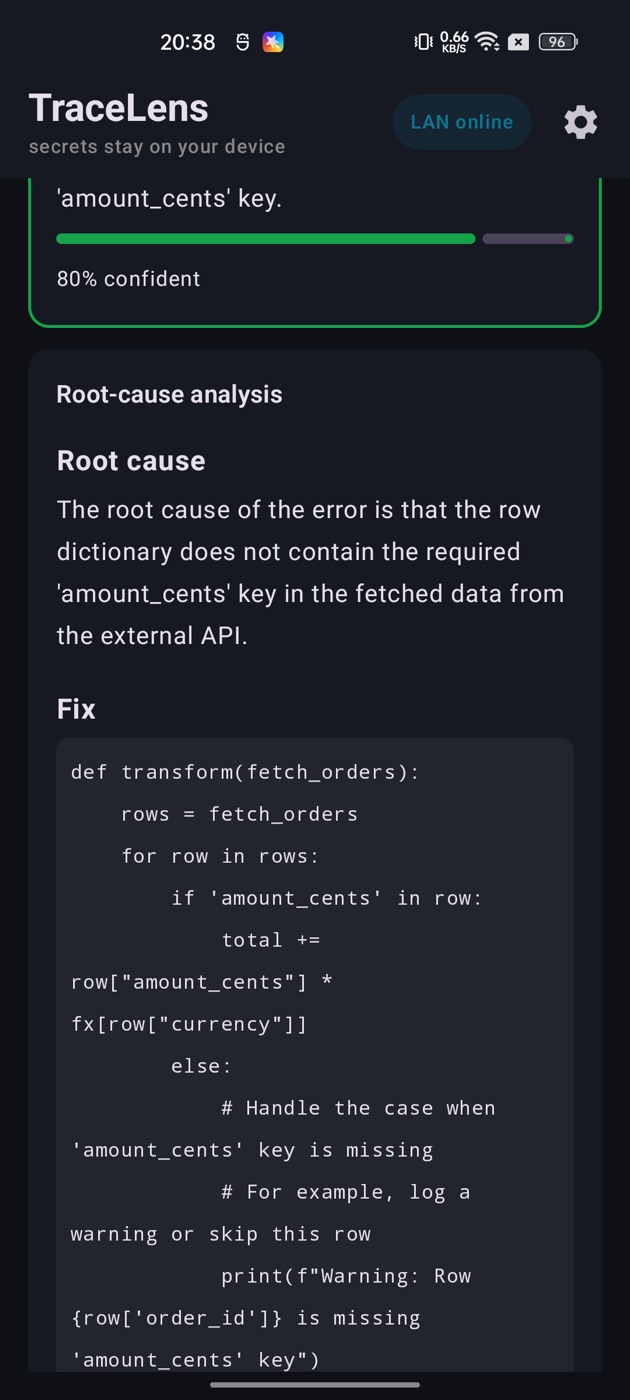
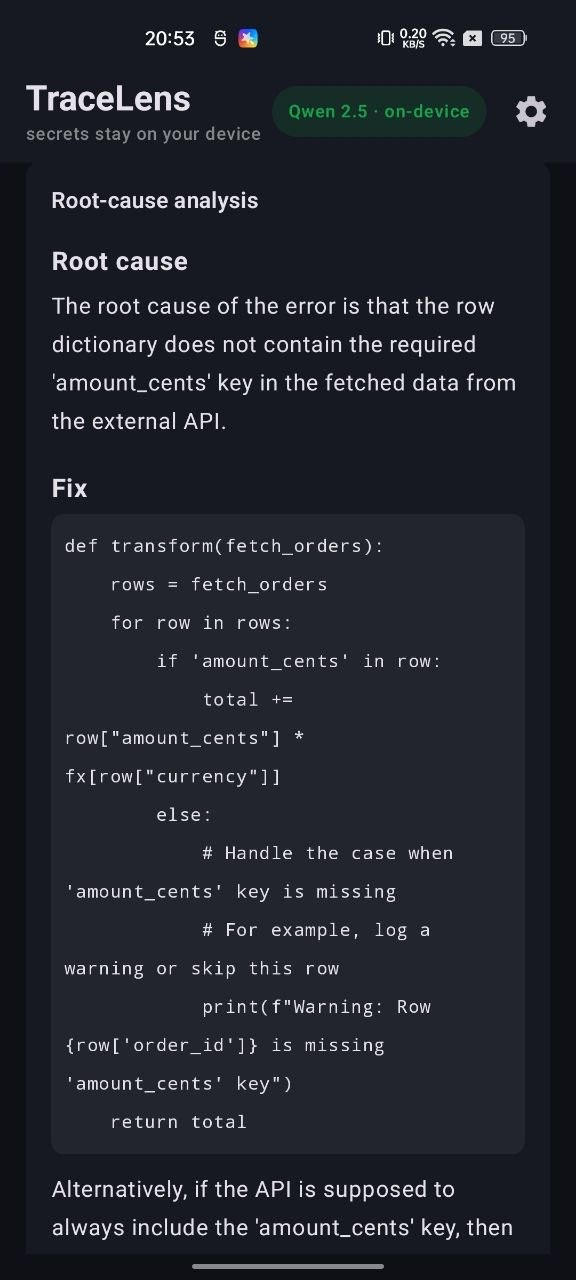
README: new UI screenshots, fix local-model attribution labels

diff --git a/android/app/src/main/java/dev/tracelens/Pipeline.kt b/android/app/src/main/java/dev/tracelens/Pipeline.kt
@@ -328,7 +328,7 @@ suspend fun redact(
                     found += o.optString("kind", "PII") to o.optString("value")
                 }
             }
-            text = r.applyLiterals(text, found)
+            text = r.applyLiterals(text, found, by = "network")
             logs += StepLog("Redact context (AI)", StepSource.LOCAL_NETWORK, System.currentTimeMillis() - t, engine.lan.model)
             RedactResult(r, text, logs, modelRan = true)
         } catch (e: Exception) {
@@ -347,7 +347,7 @@ suspend fun redact(
                     found += o.optString("kind", "PII") to o.optString("value")
                 }
             }
-            text = r.applyLiterals(text, found)
+            text = r.applyLiterals(text, found, by = "edge")
             logs += StepLog("Redact context (AI)", StepSource.EDGE, System.currentTimeMillis() - t, engine.model.name)
             RedactResult(r, text, logs, modelRan = true)
         } catch (e: Exception) {

diff --git a/web/src/App.tsx b/web/src/App.tsx
@@ -561,9 +561,6 @@ export default function App() {
             </span>
           )}
           <span className={`pill ${online ? "pill-online" : "pill-offline"}`}>{online ? "Online" : "Offline"}</span>
-          <button className={`ghost ${inSettings ? "active" : ""}`} onClick={() => (inSettings ? closeSettings() : openSettings())} aria-label="Settings and setup">
-            ⚙ Settings
-          </button>
           {user?.isAnonymous ? (
             <button className="ghost" onClick={googleSignIn}>
               Sign in to sync
@@ -573,6 +570,9 @@ export default function App() {
               Sign out
             </button>
           ) : null}
+          <button className={`ghost ${inSettings ? "active" : ""}`} onClick={() => (inSettings ? closeSettings() : openSettings())} aria-label="Settings and setup">
+            ⚙ Settings
+          </button>
         </div>
       </header>
 

diff --git a/ios/TraceLens/Pipeline.swift b/ios/TraceLens/Pipeline.swift
@@ -221,7 +221,7 @@ enum Pipeline {
                         found.append((kind: item["kind"] as? String ?? "PII", value: item["value"] as? String ?? ""))
                     }
                 }
-                text = r.applyLiterals(text, found)
+                text = r.applyLiterals(text, found, by: "network")
                 logs.append(StepLog(step: "redact_model", source: .localNetwork, ms: ms(since: t), note: lan.model))
                 return RedactResult(redactor: r, sanitized: text, logs: logs, modelRan: true)
             } catch {

diff --git a/ios/TraceLens/ContentView.swift b/ios/TraceLens/ContentView.swift
@@ -394,6 +394,7 @@ struct RedactionList: View {
                     switch r.by {
                     case "rule": Badge(text: "rule", color: rulesPurple)
                     case "user": Badge(text: "you", color: warn)
+                    case "network": Badge(text: "network model", color: Color(red: 0.05, green: 0.45, blue: 0.56))
                     default: Badge(text: "Apple Intelligence", color: deviceGreen)
                     }
                 }

diff --git a/android/app/src/main/java/dev/tracelens/MainActivity.kt b/android/app/src/main/java/dev/tracelens/MainActivity.kt
@@ -533,6 +533,8 @@ private fun RedactionList(items: List<Redaction>) {
                 val (l, c) = when (r.by) {
                     "rule" -> "rule" to RulesPurple
                     "user" -> "you" to Warn
+                    "network" -> "network model" to Color(0xFF0E7490)
+                    "edge" -> "AI Edge model" to DeviceGreen
                     else -> "Gemini Nano" to DeviceGreen
                 }
                 Badge(l, c)

diff --git a/README.md b/README.md
@@ -9,16 +9,16 @@ Built for the Firebase **#BuildHybridAI** hackathon with the **Firebase AI Logic
 **Live demo:** https://tracelens-e8e9a.web.app (desktop Chrome recommended)
 
 <p align="center">
-  <img src="docs/screenshots/web-home.png" width="820" alt="Web">
+  <img src="docs/screenshots/web-home.jpg" width="820" alt="Web">
 </p>
-<p align="center"><sub>Web (Chrome + Gemini Nano)</sub></p>
+<p align="center"><sub>Web: Chrome with Gemini Nano ready, every AI step on-device</sub></p>
 
 <p align="center">
   <img src="docs/screenshots/android-home.jpg" width="260" alt="Android">
   &nbsp;&nbsp;&nbsp;
-  <img src="docs/screenshots/ios-home.png" width="260" alt="iOS">
+  <img src="docs/screenshots/ios-home.jpg" width="260" alt="iOS">
 </p>
-<p align="center"><sub>Android (Qwen 2.5 on the phone) &nbsp;·&nbsp; iOS</sub></p>
+<p align="center"><sub>Android: Private mode on Qwen 2.5 (on the phone) &nbsp;·&nbsp; iOS: Private mode on a network model</sub></p>
 
 ### Local AI on every platform
 
@@ -30,8 +30,8 @@ Private mode keeps every AI step off the cloud. Real runs: **Web** in Chrome on 
 
 | Android · Qwen 2.5 **on the phone** | Android · Llama 3.2 **on a network server** | iOS · Llama 3.2 **on a network server** | iOS · private deep dive |
 |:---:|:---:|:---:|:---:|
-| <img src="docs/screenshots/android-pipeline.jpg" width="200" alt="Android on-phone pipeline"> | <img src="docs/screenshots/android-lan-pipeline.jpg" width="200" alt="Android network pipeline"> | <img src="docs/screenshots/ios-local-network.png" width="200" alt="iOS network pipeline"> | <img src="docs/screenshots/ios-lan-deepdive.jpg" width="200" alt="iOS deep dive"> |
-| redaction ~18 s · triage ~9 s | redaction 9.4 s · triage 4.3 s | redaction 9 s · triage 6.6 s | root cause + code fix |
+| <img src="docs/screenshots/android-pipeline.jpg" width="200" alt="Android on-phone pipeline"> | <img src="docs/screenshots/android-lan-pipeline.jpg" width="200" alt="Android network pipeline"> | <img src="docs/screenshots/ios-local-network.jpg" width="200" alt="iOS network pipeline"> | <img src="docs/screenshots/ios-lan-deepdive.jpg" width="200" alt="iOS deep dive"> |
+| redaction ~18 s · triage ~9 s | redaction 9.4 s · triage 4.3 s · deep dive 21.8 s | redaction 14.2 s · triage 5.9 s · deep dive 26.3 s | root cause + code fix |
 
 *On a real iPhone 15 Pro or newer, iOS uses Apple Intelligence on-device; the Simulator can't run Apple's model, so the iOS shots use the network server.*
 
@@ -93,13 +93,13 @@ Private mode keeps every AI step off the cloud. Real runs: **Web** in Chrome on 
 3. When no local model ran, the **Review** card lets you **select any text and press Hide**. It becomes `[HIDDEN_1]` everywhere.
 4. Placeholders are stable (the same secret always gets the same placeholder), so the AI can still reason about the trace. The originals stay in memory on your device and are **never stored** in Firestore.
 
-| Review & hide (web) | Result (web) |
+| Review & hide before the cloud (web) | Cloud result with sanitized input (web) |
 |:---:|:---:|
-| <img src="docs/screenshots/web-review.png" width="420" alt="Review"> | <img src="docs/screenshots/web-result.png" width="420" alt="Result"> |
+| <img src="docs/screenshots/web-review.jpg" width="420" alt="Review and hide"> | <img src="docs/screenshots/web-result.png" width="420" alt="Result"> |
 
-| Android: triage | Android: redacted trace | Android: crash import |
-|:---:|:---:|:---:|
-| <img src="docs/screenshots/android-triage.jpg" width="200" alt="Triage"> | <img src="docs/screenshots/android-redacted.jpg" width="200" alt="Redacted trace"> | <img src="docs/screenshots/android-crashes.jpg" width="200" alt="Crash import"> |
+| Android: Cloud mode (no local model) | Android: on-device triage | Android: redacted trace, kept on device | Android: sanitized trace + history |
+|:---:|:---:|:---:|:---:|
+| <img src="docs/screenshots/android-cloud.jpg" width="200" alt="Cloud mode pipeline"> | <img src="docs/screenshots/android-triage.jpg" width="200" alt="Triage"> | <img src="docs/screenshots/android-redacted.jpg" width="200" alt="Redacted trace"> | <img src="docs/screenshots/android-private-trace.jpg" width="200" alt="Sanitized trace and history"> |
 
 ---
 
@@ -164,7 +164,9 @@ OLLAMA_HOST=0.0.0.0 OLLAMA_ORIGINS=* ollama serve # listen on the network, allow
 - **Android:** cleartext HTTP is allowed so it can reach the server (Firebase traffic stays HTTPS).
 - **iOS:** asks for **Local Network** permission the first time.
 
-<p><img src="docs/screenshots/ios-settings-lan.jpg" width="200" alt="iOS local server settings"></p>
+| iOS: server online + model | iOS: memory saver + recommended models |
+|:---:|:---:|
+| <img src="docs/screenshots/ios-settings-lan.jpg" width="200" alt="iOS local server settings"> | <img src="docs/screenshots/ios-settings-models.jpg" width="200" alt="iOS recommended models"> |
 
 **Android:** besides network models, ⚙ Settings lets you pick the Gemini Nano build: **Stable** (default), **Fast** (smaller, `PREVIEW_FAST`) or **Latest** (larger, `PREVIEW`). The preview builds need the AICore developer preview.
 
@@ -187,9 +189,9 @@ Gemini Nano isn't everywhere, and on low-end machines it can be very slow (8 min
 
 Requires WebGPU: Chrome / Edge 121+ or Safari 26+. Measured on an 8 GB M1 MacBook Pro with Gemma 4 E2B: first load ~40 s, then redaction ~7 s, triage ~4 s, deep dive ~14 s.
 
-| Browser models tab | Network server tab | Gemini Nano tab |
+| Gemini Nano tab (✓ in use, model ready) | Browser models tab | Network server tab |
 |:---:|:---:|:---:|
-| <img src="docs/screenshots/web-settings-browser.jpg" width="270" alt="Browser models tab"> | <img src="docs/screenshots/web-settings-network.jpg" width="270" alt="Network server tab"> | <img src="docs/screenshots/web-settings-nano.jpg" width="270" alt="Gemini Nano tab"> |
+| <img src="docs/screenshots/web-settings-nano.jpg" width="270" alt="Gemini Nano tab"> | <img src="docs/screenshots/web-settings-browser.jpg" width="270" alt="Browser models tab"> | <img src="docs/screenshots/web-settings-network.jpg" width="270" alt="Network server tab"> |
 
 ### Android: models on the phone
 
@@ -212,9 +214,9 @@ Most phones don't have Gemini Nano (it needs AICore: Pixel 9+, Galaxy S24+ and s
 - **Quality note:** 1–2B models give useful triage but can invent details (e.g. a database name). Use **Hybrid** for a cloud deep dive, or a bigger model (Gemma 3n, or a [network server](#bigger-models-on-your-local-network)), when it matters.
 - *Why not Firebase AI Logic here?* AI Logic's on-device path is Gemini Nano. AI Edge is an extra local engine for phones without Nano. Cloud calls still go through Firebase AI Logic with App Check.
 
-| Model picker | Private mode on Qwen 2.5 | Network server (Android) | Private deep dive on the network |
+| Choose the engine | Model picker | Private mode on Qwen 2.5 | Private deep dive (network model) |
 |:---:|:---:|:---:|:---:|
-| <img src="docs/screenshots/android-edge-models.jpg" width="200" alt="Model picker"> | <img src="docs/screenshots/android-home.jpg" width="200" alt="Private on Qwen"> | <img src="docs/screenshots/android-lan-home.jpg" width="200" alt="LAN online"> | <img src="docs/screenshots/android-lan-deepdive.jpg" width="200" alt="Network deep dive"> |
+| <img src="docs/screenshots/android-settings.jpg" width="200" alt="Engine settings"> | <img src="docs/screenshots/android-edge-models.jpg" width="200" alt="Model picker"> | <img src="docs/screenshots/android-home.jpg" width="200" alt="Private on Qwen"> | <img src="docs/screenshots/android-lan-deepdive.jpg" width="200" alt="Network deep dive"> |
 
 ---
 
@@ -227,6 +229,8 @@ adb shell pm grant dev.tracelens android.permission.READ_LOGS
 Without the grant you only see TraceLens's own crashes; the app shows the command with a Copy button. You can also **share** any crash text to TraceLens from another app.
 
 > **Realme / OPPO / OnePlus:** the grant fails with `SecurityException … GRANT_RUNTIME_PERMISSIONS` until you enable **Developer options → Disable permission monitoring**. **Xiaomi:** enable **USB debugging (Security settings)**.
+
+<p><img src="docs/screenshots/android-crashes.jpg" width="200" alt="Android crash import sheet"></p>
 
 **iOS:** Apple's sandbox doesn't let apps read other apps' crash logs. Export a crash from **Settings → Privacy & Security → Analytics Data** (or Xcode → Devices), then tap 🐞 to import the `.ips` / `.crash` / `.log` file.
 
